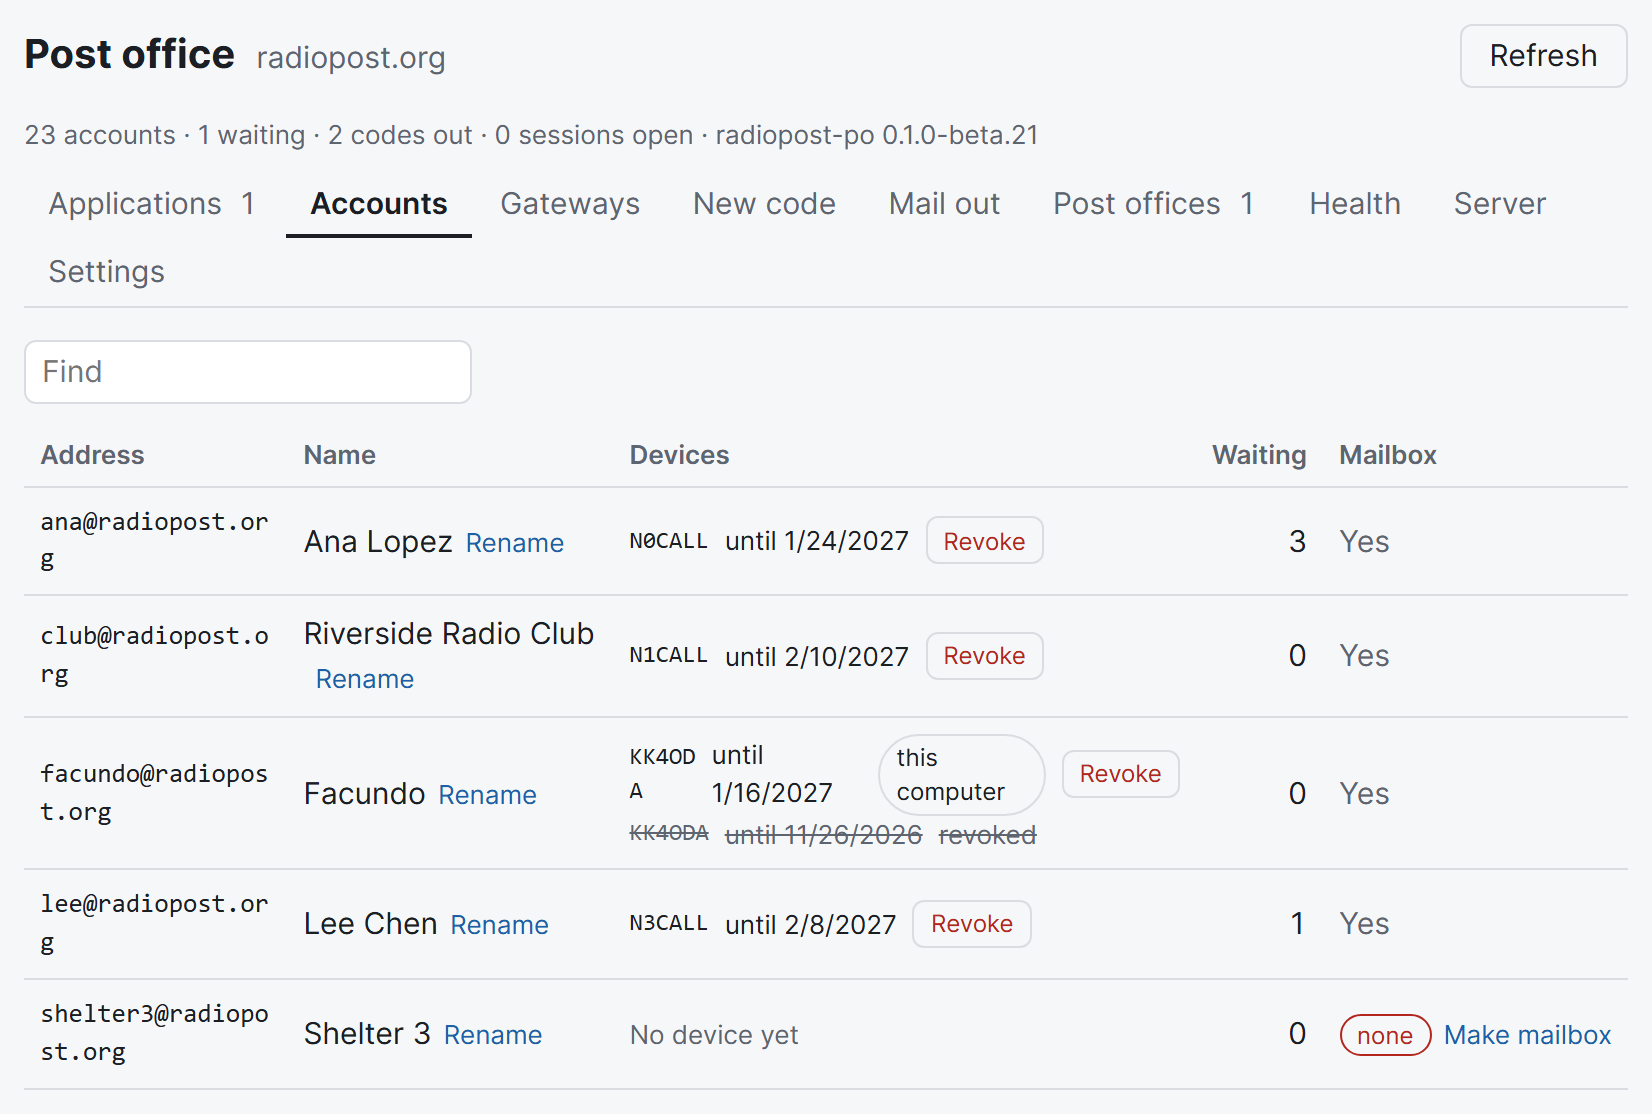
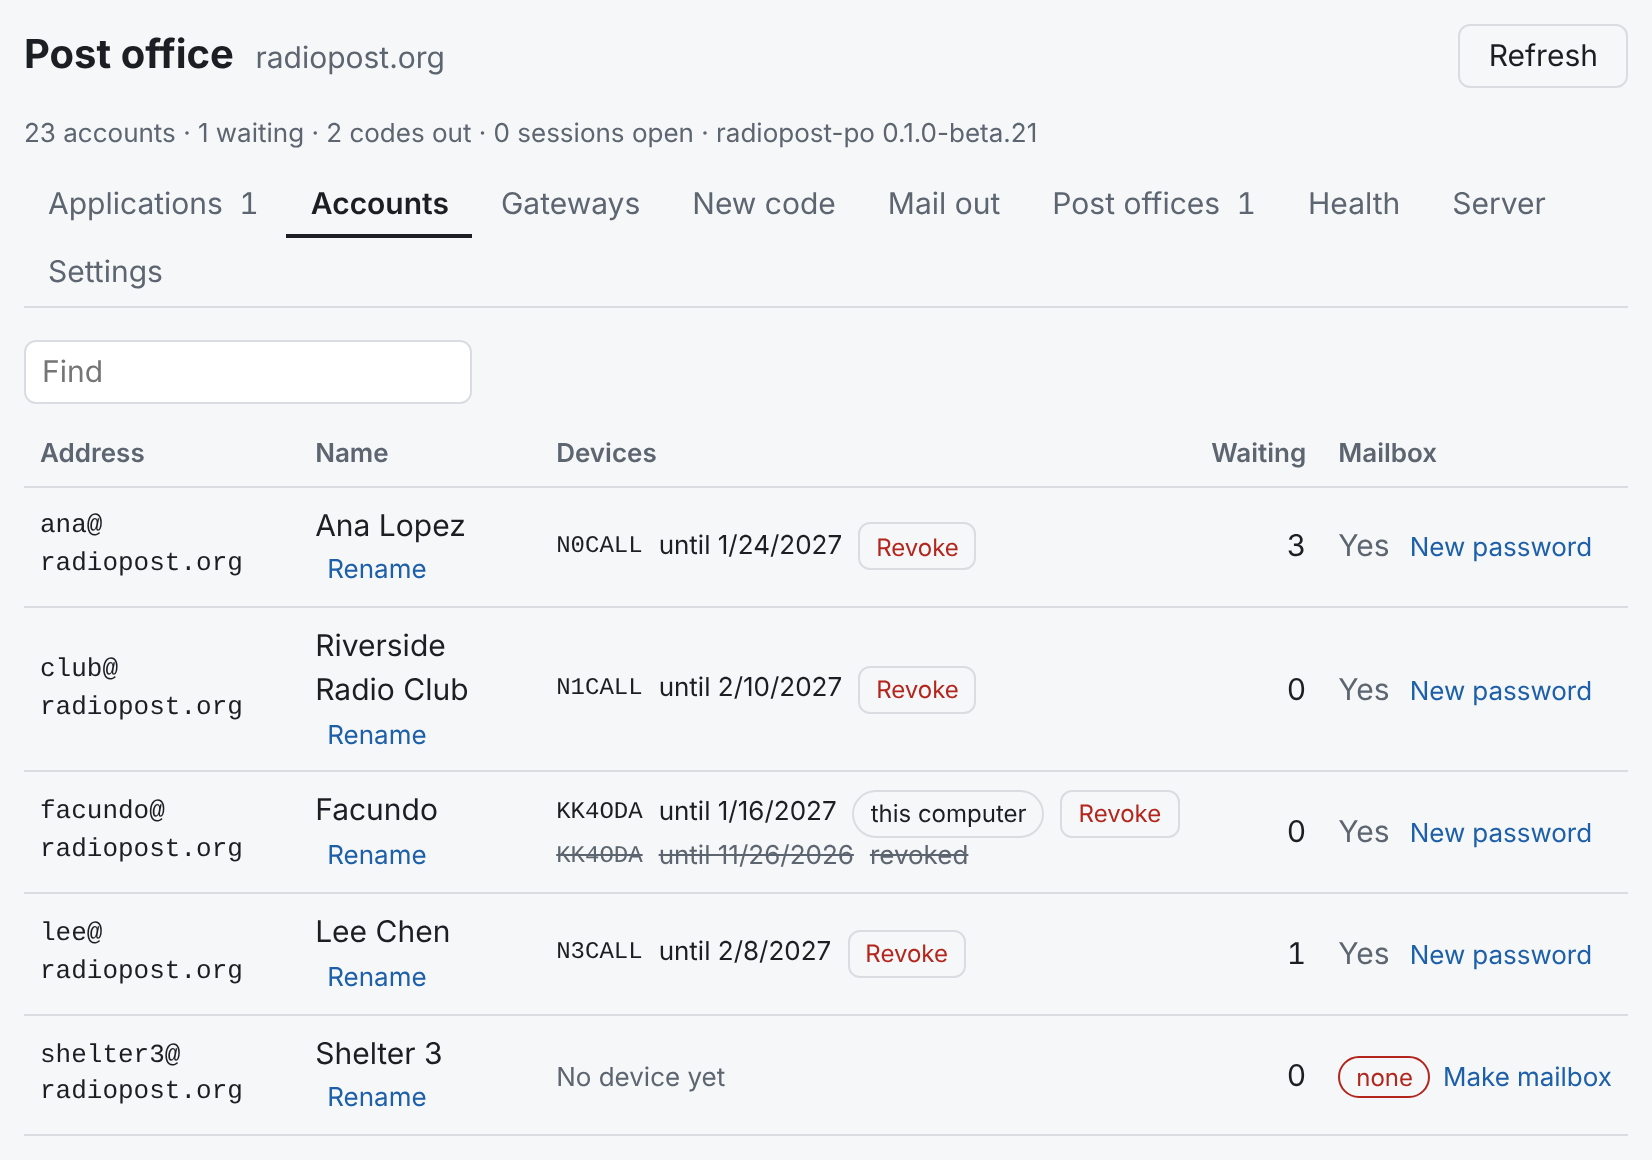
fix(desk): keep the Accounts tab's callsigns whole
A password shown under Mailbox (after New password or Make mailbox) sat in
the list's last cell, which never wraps, so its two sentences took the whole
width and every other column fell to its least: an address broke anywhere
and each callsign read one letter a line. The notes there now wrap, a
device's callsign and date stay on one line, an address breaks only after
its @, and the table scrolls in its own box in a narrow window.

The manual's Figure 34 and the README's desk picture retaken; manual 1.23.1.

Claude-Session: https://claude.ai/code/session_01QyQUNC5AoFEbRNG26MBone

diff --git a/app/ui/index.html b/app/ui/index.html
@@ -332,7 +332,7 @@
 
         <div class="o-pane" id="o-accounts" hidden>
           <input id="o-filter" class="filter" type="search" placeholder="Find" spellcheck="false" autocomplete="off" title="Show the accounts whose address, name or callsign has this in it">
-          <table class="list" aria-label="Accounts">
+          <div class="scroll"><table class="list" aria-label="Accounts">
             <thead><tr>
               <th title="The account">Address</th><th title="The name on the email it sends">Name</th>
               <th title="Each device enrolled for it: the callsign, and until when its credential runs">Devices</th>
@@ -340,7 +340,7 @@
               <th title="Whether the mail server has its mailbox: without one, email from outside is refused for the account">Mailbox</th>
             </tr></thead>
             <tbody id="o-account-rows"></tbody>
-          </table>
+          </table></div>
         </div>
 
         <form class="o-pane card" id="o-code" hidden>

diff --git a/app/ui/style.css b/app/ui/style.css
@@ -372,6 +372,12 @@ h2.section { margin-top: 24px; }
 .decided td, #o-accounts td, #o-mail td { cursor: default; }
 .dev { display: flex; gap: 8px; align-items: center; font-size: 13px; }
 .dev .mono { font-size: 12px; }
+/* the accounts: an address breaks only after its @, a device is one line, and a password shown in
+   the Mailbox cell wraps: as a list's last cell (nowrap) its two sentences took the whole width, the
+   other columns at their least, the callsigns one letter a line */
+#o-accounts td.mono { overflow-wrap: normal; }
+.dev > span { white-space: nowrap; overflow-wrap: normal; }
+#o-account-rows td:last-child .note { white-space: normal; }
 .dev.revoked { color: var(--muted); text-decoration: line-through; }
 .dev button { height: 24px; padding: 0 8px; font-size: 12px; }
 .made { margin-top: 14px; padding: 12px; border: 1px dashed var(--line); border-radius: 8px; }

diff --git a/app/ui/app.js b/app/ui/app.js
@@ -2234,7 +2234,10 @@ function drawAccounts() {
           title: "Make its mailbox in the mail server now; its password is shown once",
           onclick: () => makeMailbox(a, mailbox)}));
     }
-    return el("tr", {}, el("td", {class: "mono", text: a.address}), name, devices,
+    // an address may break after its @ and nowhere else
+    const at = a.address.indexOf("@") + 1;
+    const address = el("td", {class: "mono"}, a.address.slice(0, at), el("wbr"), a.address.slice(at));
+    return el("tr", {}, address, name, devices,
       el("td", {class: "n", text: String(a.waiting || 0)}), mailbox);
   }));
 }

diff --git a/docs/manual/manual.md b/docs/manual/manual.md
@@ -5,7 +5,7 @@
 | | |
 |---|---|
 | **Status** | Current |
-| **Version** | 1.23.0 |
+| **Version** | 1.23.1 |
 | **Updated** | 2026-11-19 |
 | **Describes** | RadioPost 0.1.0-beta.30 |
 | **Licence** | CC BY 4.0 |
@@ -2050,3 +2050,4 @@ manual in the same commit. The rule is in `CONTRIBUTING.md`.
 | 1.21.0 | 2026-11-18 | A tester's gateway registered with radiopost.org under his first account while he was trying his own post office, and nothing could take it off. §17, §18 step 2: **Account**, the client's account the gateway registers with, and the line that says where before **Register with …**; the form keeps what was registered. §18 *Unregistering, or moving to another post office*: **Unregister**, what it does, one post office at a time, and what keeps it from unregistering. §23: `accounts`, `register --account`, `unregister`. §24: `record.json`. §25, §27 *Gateways registered here*: the desk's **Gateways** tab and its **Unregister** (new Figure 35; later figures renumbered). §37, §40 to match. The gateway's Setup and the desk's screenshots retaken. |
 | 1.22.0 | 2026-11-18 | §27: **New password** beside an account's mailbox, for someone who forgot theirs (the mail server has no reset of its own): a new password, shown once, only the password changed. §37 to match. |
 | 1.23.0 | 2026-11-19 | Each program's version beside its name at the top of its window (§1, §6, §19). §12 and §18: **Updates** in **Setup**, with **Check for updates**, which asks for a newer release now instead of at the next six-hourly check. §4 and §19 to match. Figures 7 and 30, and the windows that show the top bar, retaken. |
+| 1.23.1 | 2026-11-19 | §27: the desk's **Accounts** tab keeps a callsign, a date and an address whole (an address breaks only after its @), and a password shown under **Mailbox** wraps; it had squeezed the other columns until callsigns read one letter a line. Figure 34 retaken. |
